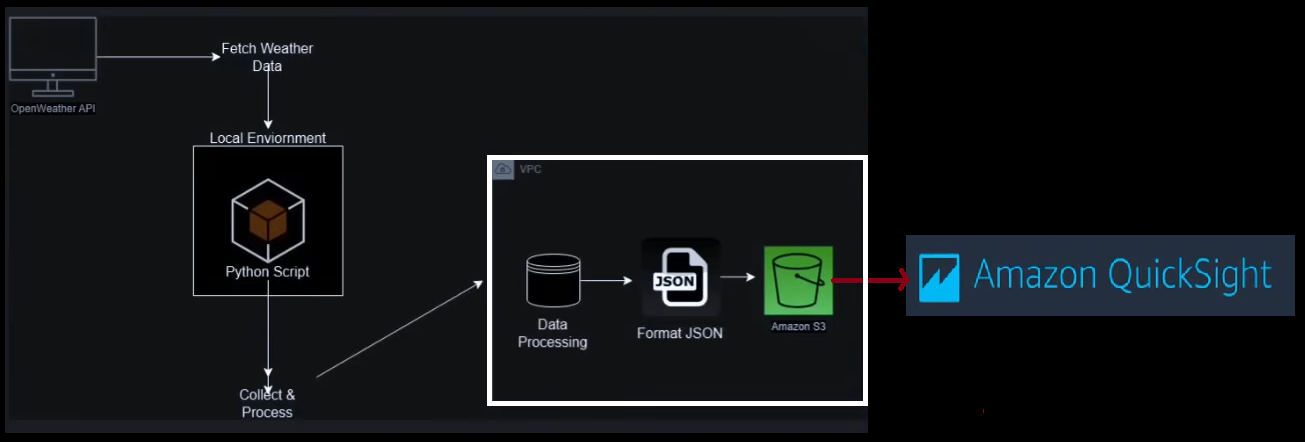
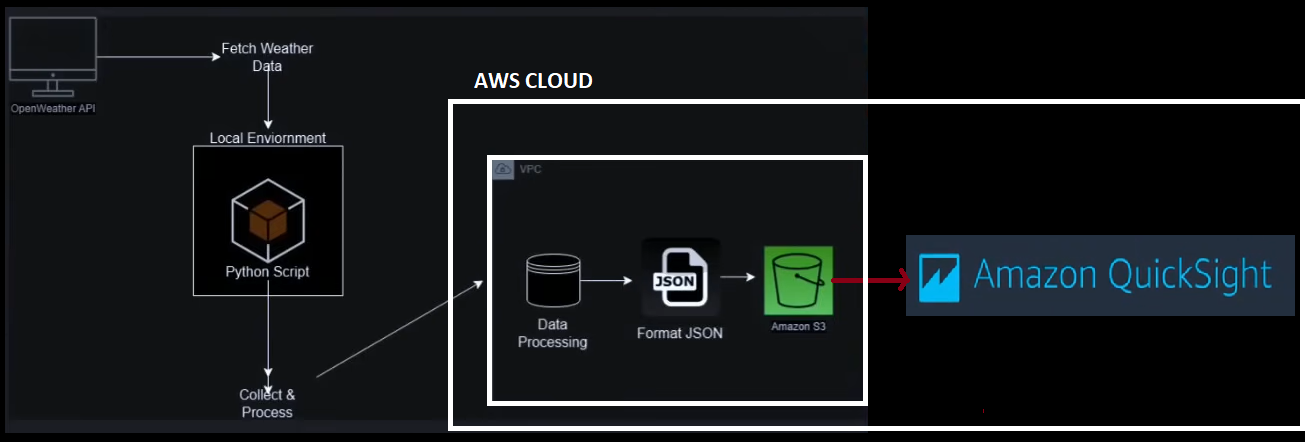
README actualisé avec le main diagram.

Changed region(s): [[0.3372, 0.1471, 1.0, 1.0]]

diff --git a/README.md b/README.md
@@ -12,7 +12,7 @@ Ce projet est un système de collecte de données météorologiques qui démontr
 - Gestion de l'environnement
 - Tests automatisés avec Python VS Code debugger extension
 
-
+![Project Diagram](src/img/main_diagram.png) 
 
 ## Fonctionnalités du projet
 - Récupère les données météorologiques en temps réel pour plusieurs villes
